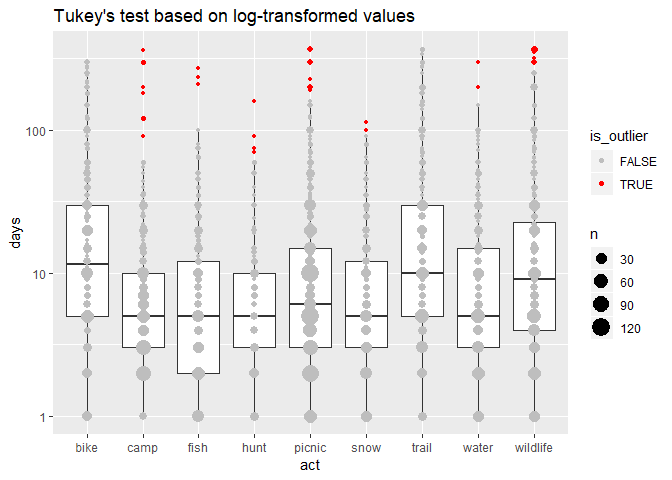
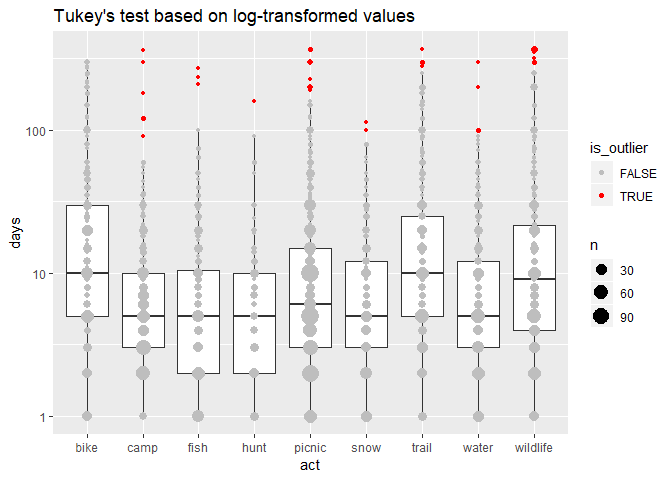
fixed outlier example to remove flagged respondents

diff --git a/code/1-svy/outlier-testing.md b/code/1-svy/outlier-testing.md
@@ -18,8 +18,13 @@ that is very aggressive in identifying outliers.
 ``` r
 # only looking at days greater than zero
 days <- svy$act %>% 
+    semi_join(filter(svy$person, flag < 4), by = "Vrid") %>%
     filter(is_targeted, !is.na(days), days > 0)
+```
 
+    Warning: Column `Vrid` has different attributes on LHS and RHS of join
+
+``` r
 # identify outliers
 x <- days %>%
     group_by(act) %>%
@@ -48,15 +53,15 @@ group_by(x, act, is_outlier) %>%
 
 | act      | is\_outlier |  n | pct\_outliers |
 | :------- | :---------- | -: | ------------: |
-| bike     | TRUE        | 46 |     11.979167 |
-| camp     | TRUE        | 55 |     11.482255 |
-| fish     | TRUE        | 33 |      9.850746 |
-| hunt     | TRUE        | 17 |     10.493827 |
-| picnic   | TRUE        | 88 |      9.638554 |
-| snow     | TRUE        | 27 |      8.681672 |
-| trail    | TRUE        | 50 |     11.682243 |
-| water    | TRUE        | 30 |      7.792208 |
-| wildlife | TRUE        | 63 |     12.022901 |
+| bike     | TRUE        | 38 |     11.176471 |
+| camp     | TRUE        | 46 |     10.623557 |
+| fish     | TRUE        | 34 |     11.333333 |
+| hunt     | TRUE        | 10 |      6.896552 |
+| picnic   | TRUE        | 81 |      9.429569 |
+| snow     | TRUE        | 24 |      8.727273 |
+| trail    | TRUE        | 51 |     13.110540 |
+| water    | TRUE        | 41 |     11.581921 |
+| wildlife | TRUE        | 68 |     14.107884 |
 
 ## Log-transfrom with Tukey’s Test
 
@@ -90,10 +95,11 @@ group_by(x, act, is_outlier) %>%
 
 | act      | is\_outlier |  n | pct\_outliers |
 | :------- | :---------- | -: | ------------: |
-| camp     | TRUE        |  8 |     1.6701461 |
-| fish     | TRUE        |  3 |     0.8955224 |
-| hunt     | TRUE        |  4 |     2.4691358 |
-| picnic   | TRUE        | 16 |     1.7524644 |
-| snow     | TRUE        |  2 |     0.6430868 |
-| water    | TRUE        |  2 |     0.5194805 |
-| wildlife | TRUE        | 14 |     2.6717557 |
+| camp     | TRUE        |  6 |     1.3856813 |
+| fish     | TRUE        |  3 |     1.0000000 |
+| hunt     | TRUE        |  1 |     0.6896552 |
+| picnic   | TRUE        | 15 |     1.7462165 |
+| snow     | TRUE        |  2 |     0.7272727 |
+| trail    | TRUE        |  4 |     1.0282776 |
+| water    | TRUE        |  4 |     1.1299435 |
+| wildlife | TRUE        | 13 |     2.6970954 |
